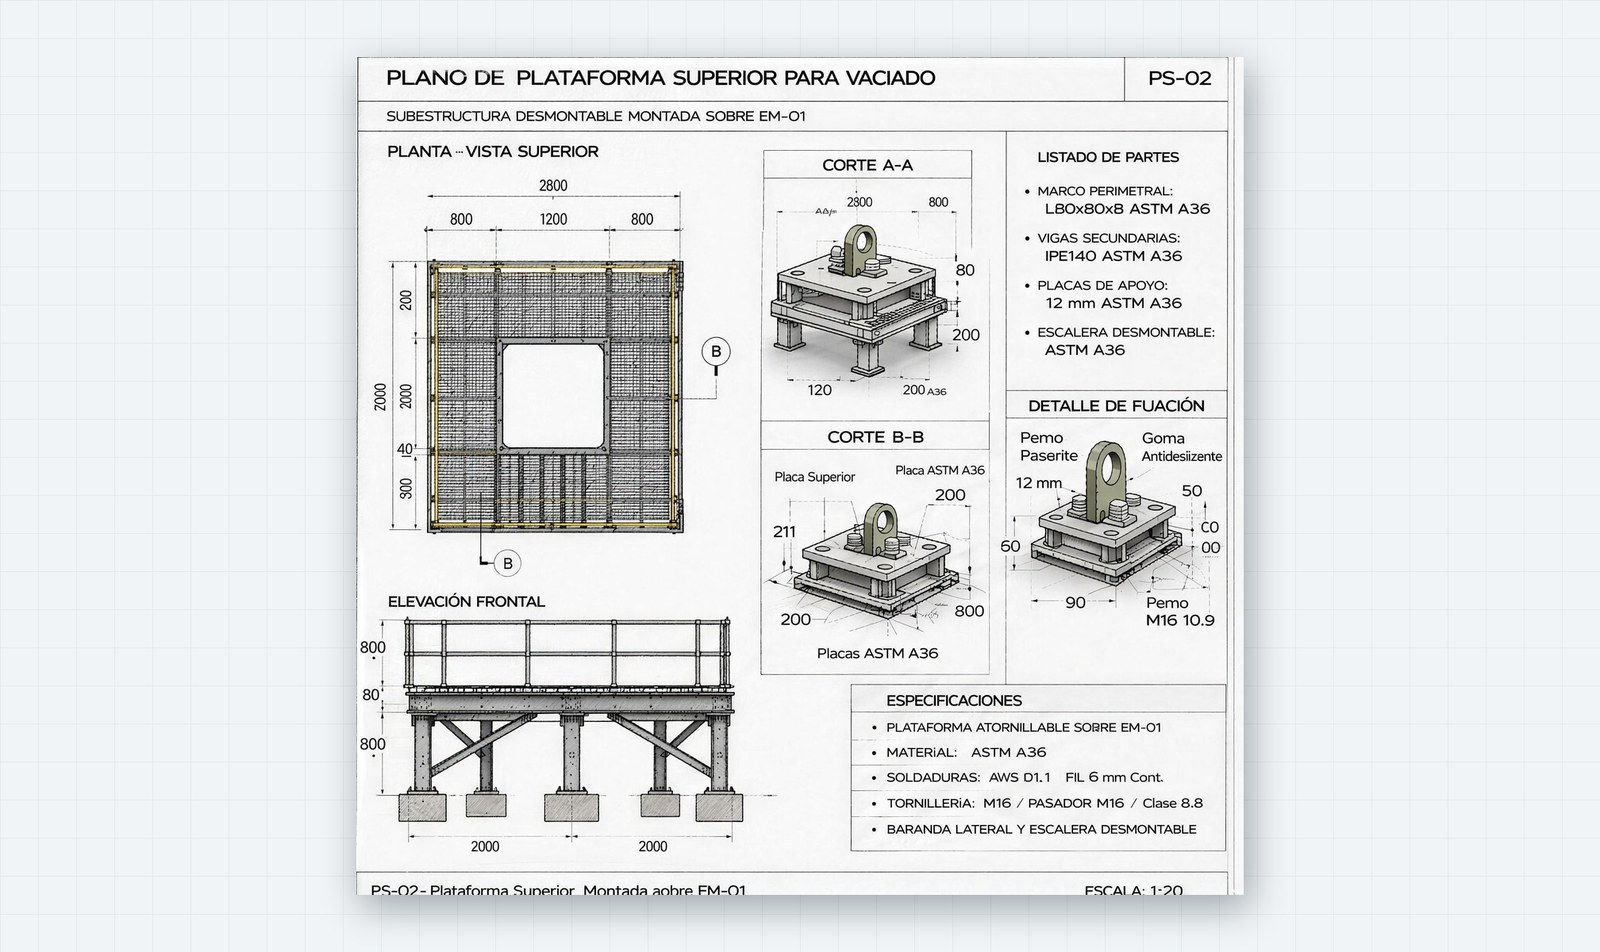
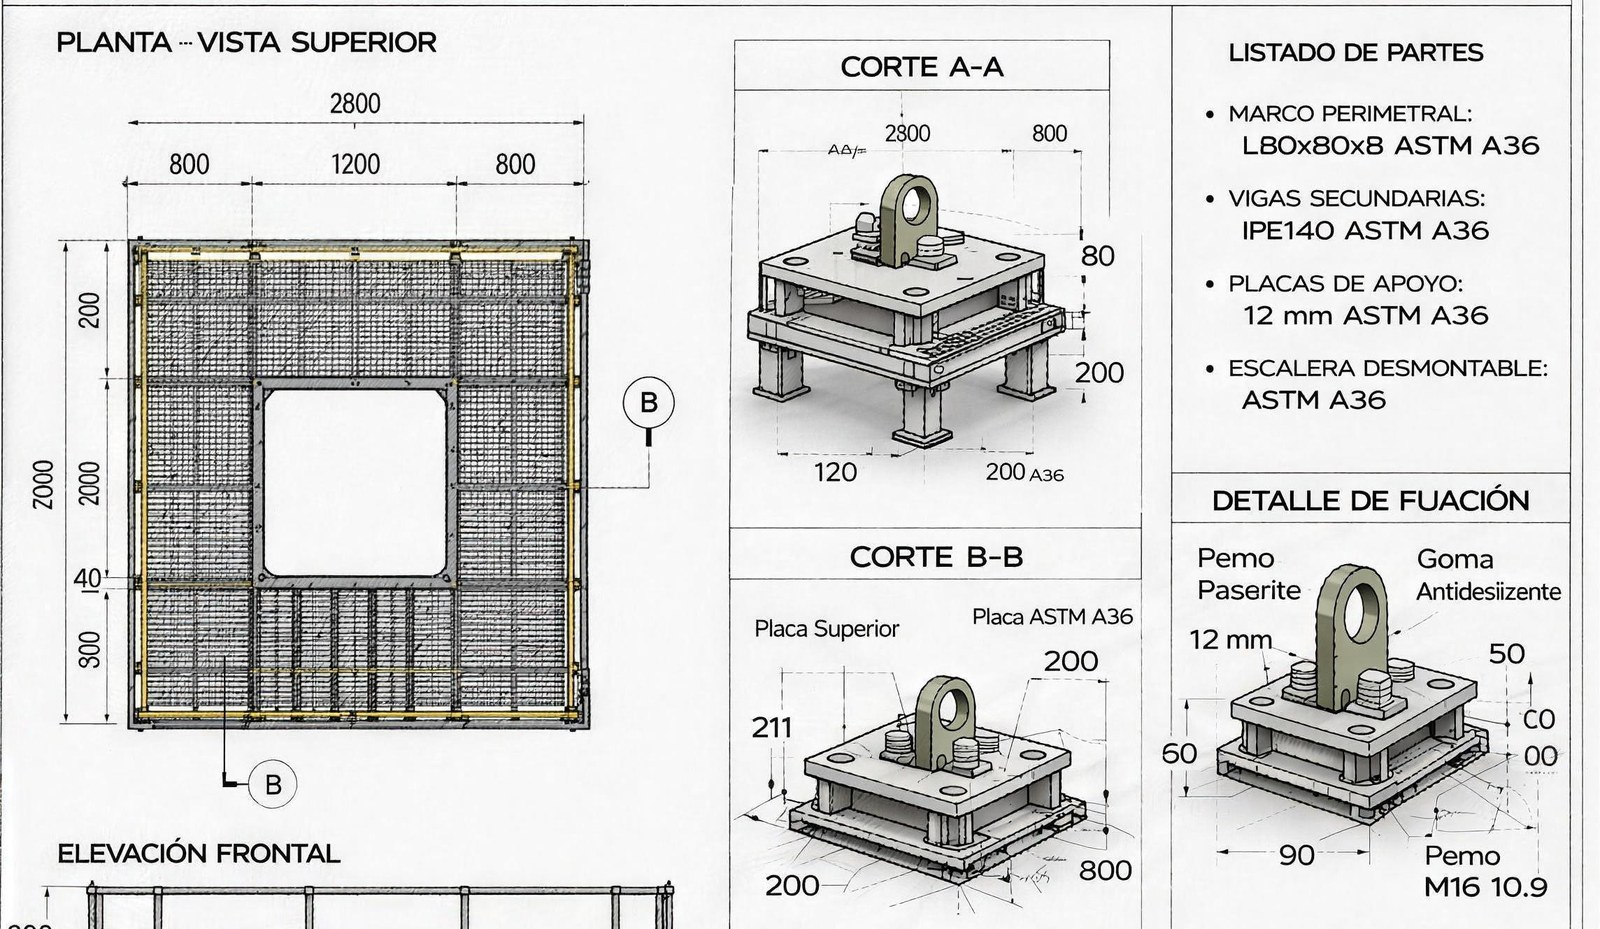
Fotos actuales del equipo en Nosotros e Implementación BIM a sangre completa (#38)
- Collage de "Qué hacemos": la foto grande y la superior derecha se
  reemplazan por dos fotos recientes (visita técnica y ponencia sobre
  modelado de infraestructura vial); se conserva la de los banners.
- Implementación BIM: la lámina de Cubipods se recorta para llenar todo el
  panel, sin márgenes ni fondo de retícula.

Claude-Session: https://claude.ai/code/session_0111hWdNHpYQARiHB1jm2ESS

diff --git a/output/sitio-next/src/app/nosotros/page.tsx b/output/sitio-next/src/app/nosotros/page.tsx
@@ -54,7 +54,7 @@ export default function Nosotros() {
             <div className="panel alza overflow-hidden">
               <Image
                 src="/images/nosotros-equipo-real.jpg"
-                alt="El equipo de Design Modeling en la PUCE y en eventos de metodología BIM"
+                alt="El equipo de Design Modeling en visitas técnicas y en eventos de metodología BIM"
                 width={1920}
                 height={1080}
                 className="size-full object-cover"
